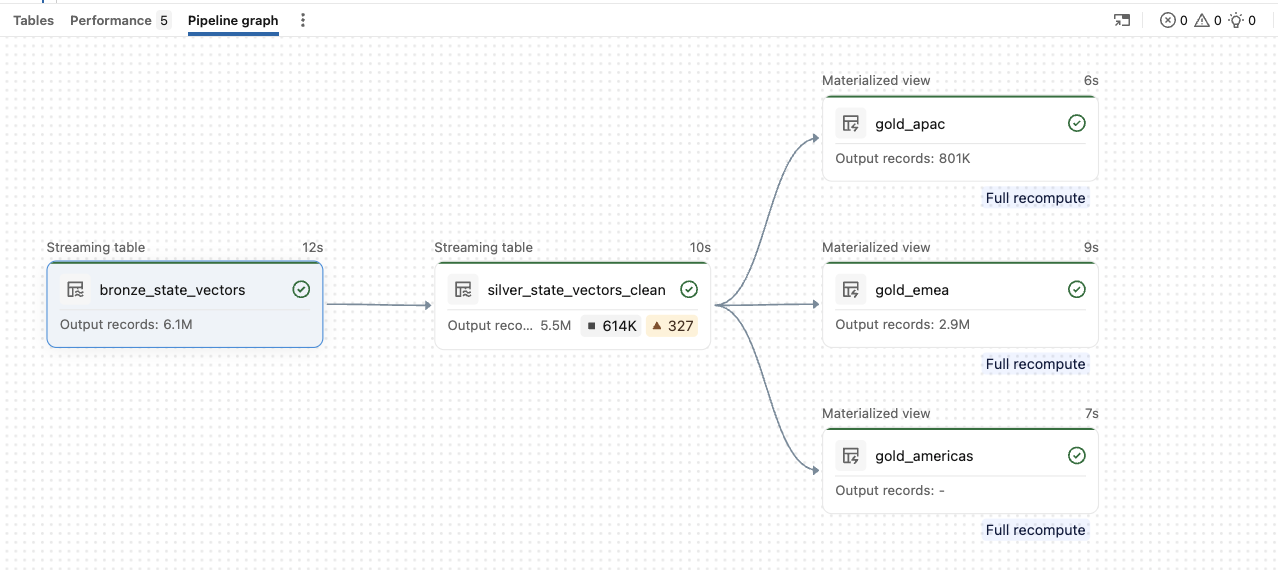
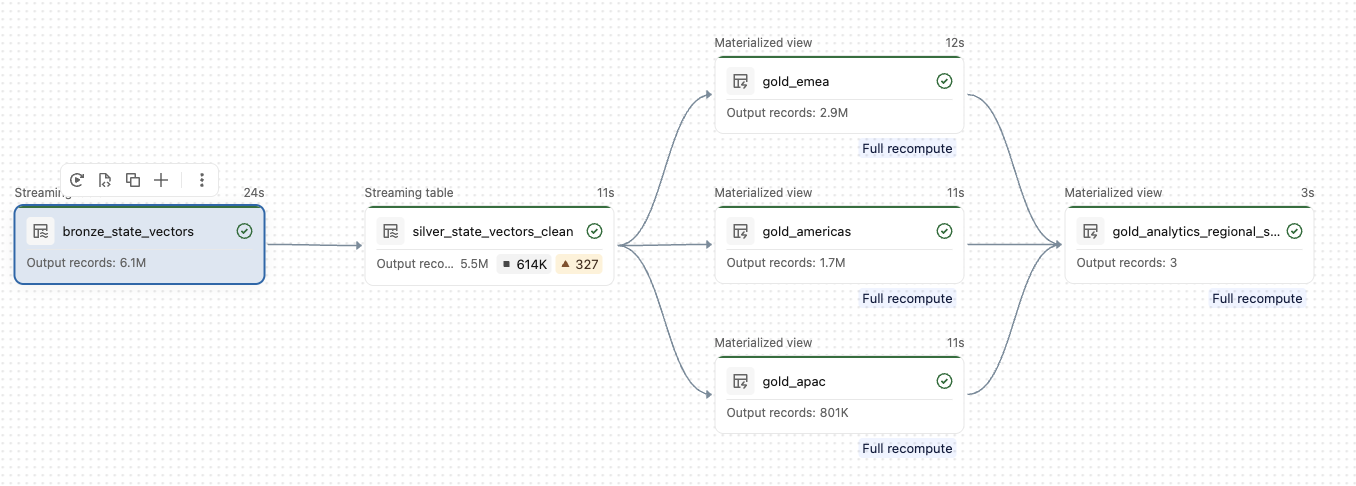
updates

diff --git a/DSDE-Genie-Workshop/docs/04-pipeline.md b/DSDE-Genie-Workshop/docs/04-pipeline.md
@@ -2,24 +2,17 @@
 
 ## What we do
 
-We turn the raw table into clean, query-ready data with a **Spark Declarative Pipeline**. Declartive means you declare *what* the data should look like and Databricks manages
+We turn the raw table into clean, query-ready data with a **Spark Declarative Pipeline**. Declarative means you declare *what* the data should look like and Databricks manages
 orchestration, incremental refresh, and data-quality enforcement. We generate the pipeline with
 **Genie Code**.
 
-> [!IMPORTANT]
-> **Free Edition — reduce the data first.** The full share is ~695M rows for one UTC day, more than
-> Free Edition compute can process, so filter the bronze ingest to a deterministic sample of
-> aircraft with the predicate below before running the pipeline. This keeps roughly 5% of aircraft
-> but every state vector for each of them — so whole flight tracks stay intact — and it needs no
-> clustering or index on the shared table.
+> **Note — this isn't a full pipeline tutorial.** Here we focus on generating a working
+> Spark Declarative Pipeline with Genie Code, not on teaching SDP from the ground up. If you want a
+> deeper, hands-on walkthrough of Spark Declarative Pipelines — covering both open source and Lakeflow —
+> see [How to get started with Spark Declarative Pipelines](https://www.databricks.com/discover/how-to-get-started-with-spark-declarative-pipelines).
+> It's built on the *same avionics data*, but consumed as a **live stream** — so you can literally
+> track the planes flying over your head right now.
 
-```sql
-SELECT *
-FROM marketplace.opensky.state_vectors
-WHERE mod(abs(crc32(icao24)), 20) = 0     -- ~5% of aircraft, whole tracks
-```
-
-Tune the divisor for the fraction you want (`20` ≈ 5%, `50` ≈ 2%). 
 ## Step-by-step guide
 
 > To create a Data Pipeline using SDP with Genie Code, follow this step-by-step procedure:
@@ -30,17 +23,20 @@ Tune the divisor for the fraction you want (`20` ≈ 5%, `50` ≈ 2%).
 >
 > **2. Submit Initial Pipeline Prompt**
 >
-> In the prompt chat input box, enter the prompt describing the end-to-end pipeline creation requirements:
+> In the prompt chat input box, enter the prompt describing the end-to-end pipeline creation requirements. Make sure you have the EDA findings in the same Genie chat available or copy them over. Using the full marketplace dataset, the SDP would process close to 700 million records. To make this more suitable for Databricks free edition we reduce the amount of data ingested to the flights between 12:00 and 12:15. 
 >
 > ```text
 > Create an SDP pipeline to process the OpenSky data from marketplace.opensky with data-quality constraints 
 > based on the findings above. Create a separate gold table with data for each of 
 > the regions Americas, EMEA, and APAC.
+> Add a materialized view that provides analytics for all the gold tables.
+> To reduce the data, only ingest flight data where the aircraft position timestamp 
+> falls between 12:00 and 12:15
 > ```
+
+> **3. Automatic Architecture Proposal**
 >
-> ****3. Automatic Architecture Proposal**
->
-> Genie Code will generate a proposed Medallion Architecture structure:
+> Genie Code will propose a Medallion Architecture structure:
 >
 > - Bronze Layer (bronze_state_vectors): Ingests raw OpenSky state vector data using streaming tables.
 > - Silver Layer (silver_state_vectors_clean): Applies quality constraints (filtering invalid locations, velocities, and extreme values).
@@ -48,22 +44,23 @@ Tune the divisor for the fraction you want (`20` ≈ 5%, `50` ≈ 2%).
 >     - gold_americas
 >     - gold_emea
 >     - gold_apac
+> - Gold Layer Summary (gold_analytics_regional_summary): A materialized view with analytics across all three regional gold tables.
 >
-> **5. Review Pipeline Graph**
+> **4. Review Pipeline Graph**
 >
-> Upon execution completion, Genie Code automatically builds the project files and generates the interactive Pipeline graph. Verify that the streaming tables flow from bronze_state_vectors → silver_state_vectors_clean (with applied expectations) → regional Gold outputs (gold_apac, gold_americas, gold_emea).
+> Upon execution completion, Genie Code automatically builds the project files and generates the interactive Pipeline graph. Verify that the streaming tables flow from bronze_state_vectors → silver_state_vectors_clean (with applied expectations) → regional Gold outputs (gold_apac, gold_americas, gold_emea) → gold_analytics_regional_summary.
 
 ## Results
 
-Genie Code's **proposed architecture** ([Step 4](#step-by-step-guide)), then the **Pipeline graph** it builds on execution
-([Step 5](#step-by-step-guide)) — `bronze_state_vectors` → `silver_state_vectors_clean` (with its data-quality
-expectations) → the three regional gold materialized views:
+Genie Code's **proposed architecture** ([Step 3](#step-by-step-guide)), then the **Pipeline graph** it builds on execution
+([Step 4](#step-by-step-guide)) — `bronze_state_vectors` → `silver_state_vectors_clean` (with its data-quality
+expectations) → the three regional gold materialized views → `gold_analytics_regional_summary`:
 ## Medallion Architecture
 ![Genie Code's proposed pipeline architecture — a bronze streaming table ingesting marketplace.opensky.state_vectors, a silver table applying data-quality constraints, and gold_americas / gold_emea / gold_apac regional tables.](assets/04-pipeline.png)
 
 ## Pipeline Graph
 
-![Pipeline graph after a completed run — bronze_state_vectors (6.1M rows) flows into silver_state_vectors_clean (5.5M rows after data-quality expectations), which fans out to the gold_apac (801K), gold_emea (2.9M), and gold_americas materialized views.](assets/04-pipeline-graph.png)
+![Pipeline graph after a completed run — bronze_state_vectors (6.1M rows) flows into silver_state_vectors_clean (5.5M rows after data-quality expectations), which fans out to the gold_apac (801K), gold_emea (2.9M), and gold_americas (1.7M) regional materialized views, which in turn feed the gold_analytics_regional_summary materialized view.](assets/04-pipeline-graph.png)
 
 ### Silver layer with data-quality expectations
 
@@ -103,7 +100,7 @@ the exact table names and boundaries in the generated pipeline; they'll look rou
 |---|---|---|
 | `gold_americas` | −170° to −30° | North & South America |
 | `gold_emea` | −30° to +75° | Europe, Middle East, Africa |
-| `gold_apac` | +60° to +180° and −180° to −120° | Asia-Pacific — **the table the [Step 5](05-app.md) app visualizes** |
+| `gold_apac` | +60° to +180° and −180° to −120° | Asia-Pacific |
 
 Splitting at the gold layer keeps each region small and fast to query, and lets you govern or
 share regions independently — while the shared silver table guarantees they were all cleaned with
@@ -115,14 +112,14 @@ the same data-quality rules.
 ## Recap
 
 You now have three cleaned **gold** tables — `gold_americas`, `gold_emea`, and `gold_apac` — all
-built on the same quality-checked silver table. Verify the APAC one (used by the app in [Step 5](05-app.md)):
+built on the same quality-checked silver table, plus the `gold_analytics_regional_summary`
+materialized view with analytics across all three. Verify the APAC one:
 
 ```sql
 SELECT * FROM gold_apac LIMIT 10;
 ```
 
-_(Confirm the exact gold table names in the pipeline Genie Code generates — note the APAC one;
-[Step 5](05-app.md) points the app at it.)_
+_(Confirm the exact gold table names in the pipeline Genie Code generates.)_
 
 ---
 

diff --git a/DSDE-Genie-Workshop/docs/05-app.md b/DSDE-Genie-Workshop/docs/05-app.md
@@ -1,18 +1,20 @@
-# 5. Databricks App with Genie Code — visualize APAC routes
+# 5. Databricks App with Genie Code — a 3D APAC flight map
 
 ## What we do
 
-We build an interactive visualization with **Databricks Apps** — a way to host web apps right
-next to your data, with governed access and no separate infrastructure to manage. We generate the
-app with **Genie Code**.
+We build an interactive **3D visualization** with **Databricks Apps** — a way to host web apps
+right next to your data, with governed access and no separate infrastructure to manage. The whole
+app is **generated by Genie Code** from a single natural-language prompt: a React/TypeScript app
+that uses **deck.gl** to draw each flight's trajectory as a 3D path — following its real altitude —
+that you can zoom, pan and rotate.
 
-> [!IMPORTANT]
-> **Free Edition:** Confirm Databricks Apps availability in your workspace before starting this step.
+It reads the raw Marketplace table directly and filters to an **APAC bounding box**, so this step
+stands on its own and doesn't depend on the pipeline's gold tables from [Step 4](04-pipeline.md).
 
 ## Screenshot
 
 > [!NOTE]
-> **Screenshot to be added:** the running app — the zoomable APAC flight-route map (`docs/assets/05-app.png`).
+> **Screenshot to be added:** the running app — the 3D, zoomable APAC flight-trajectory map (`docs/assets/05-app.png`).
 
 ## Step-by-step guide
 
@@ -25,16 +27,28 @@ app with **Genie Code**.
 > Give it this prompt:
 >
 > ```text
-> Create a Databricks App with a zoomable, interactive map of APAC flight
-> routes from the APAC gold table. Plot each aircraft position
-> (latitude/longitude) colored by altitude, draw per-callsign route polylines
-> ordered by time, and let the user zoom, pan and hover a flight to see its
-> callsign, origin country, altitude (ft) and speed (knots).
+> Create a Databricks App (React + TypeScript) that shows a 3D, zoomable map of
+> APAC flight trajectories, using deck.gl for rendering.
+>
+> Data: query marketplace.opensky.state_vectors directly. Keep only airborne
+> rows (on_ground = false) inside the APAC bounding box (latitude between -50
+> and 60, longitude between 60 and 180) whose time_position falls between 12:00
+> and 12:15 on 2026-03-01, and drop bad rows (null latitude/longitude, or
+> geo_altitude outside 0-20000 m). Pick the 100 callsigns with the most
+> position reports.
+>
+> For each of those 100 flights, order its positions by time and draw the
+> trajectory as a 3D path that follows the aircraft's altitude (use
+> geo_altitude as the elevation), colored by altitude. Give the map a pitched
+> 3D view the user can zoom, pan and rotate, and show a tooltip on hover with
+> the callsign, altitude in feet and speed in knots.
 > ```
 >
 > **Step 3: Connect the data**
 >
-> Point the app at your **SQL warehouse** and the **APAC gold table** from [Step 4](04-pipeline.md).
+> Point the app at your **SQL warehouse** and the Marketplace table
+> `marketplace.opensky.state_vectors` from [Step 1](01-marketplace.md). No pipeline output is
+> needed — the app applies the APAC bounding box itself.
 >
 > **Step 4: Deploy**
 >
@@ -49,8 +63,9 @@ app with **Genie Code**.
 
 ## Recap
 
-You have a live, zoomable map of APAC flight routes built on your cleaned gold data — the payoff
-of the whole workflow.
+You have a live, **3D** zoomable map of APAC flight trajectories — 100 flights drawn at their real
+altitudes — generated end-to-end by **Genie Code** from one prompt, reading the Marketplace data
+directly. The payoff of the whole workflow.
 
 ---
 

diff --git a/DSDE-Genie-Workshop/README.md b/DSDE-Genie-Workshop/README.md
@@ -1,14 +1,17 @@
-# OpenSky Avionics on Databricks
+# AI-powered Analytics of 700 Million OpenSky Avionics Records on Databricks Free Edition
 
-A hands-on, end-to-end tutorial on Databricks: start with a raw Marketplace dataset — a full day of flight-tracking data from the **OpenSky Network** — and finish with a live, interactive map.
+## How to get started with Databricks Genie as a Data Scientist or Data Engineer
+
+
+A hands-on, end-to-end tutorial on Databricks Free Edition with a real data set. Start with publicly available, raw Marketplace flight data from every single plane in the air on a particular day in 2026 from the **[OpenSky Network](https://opensky-network.org/)**, run EDA, analytics, ingest pipelines and finish with a live, interactive map.
 
 ## What you'll build
 
 1. **[Databricks Marketplace](docs/01-marketplace.md)** — get the data as a read-only Unity Catalog table.
-2. **[Genie Agents — EDA](docs/02-genie-eda.md)** — find data anomalies.
-3. **[Genie Agents — explore & visualize](docs/03-genie-explore.md)** — explore and visualize the data.
-4. **[Spark Declarative Pipeline with Genie Code](docs/04-pipeline.md)** — ingest and clean the data into per-region gold tables.
-5. **[Databricks App with Genie Code](docs/05-app.md)** — visualize APAC flight routes on a zoomable map.
+2. **[Genie Agents - EDA](docs/02-genie-eda.md)** — find data anomalies.
+3. **[Genie Agents - explore & visualize](docs/03-genie-explore.md)** — explore and visualize the data.
+4. **[Genie Code - Spark Declarative Pipeline](docs/04-pipeline.md)** — ingest and clean the data into per-region gold tables.
+5. **[Genie Code - create a Databricks App](docs/05-app.md)** — visualize APAC flight routes on a zoomable map.
 6. **[Genie One](docs/06-genie-one.md)** — ask questions across your data in natural language.
 7. **[OpenSharing](docs/07-opensharing.md)** — receive the shared data locally with the open-source client and VSCode.
 8. **[Wrap-up & next steps](docs/08-wrap-up.md)** — clean up and where to go from here.

diff --git a/DSDE-Genie-Workshop/docs/03-genie-explore.md b/DSDE-Genie-Workshop/docs/03-genie-explore.md
@@ -10,6 +10,8 @@ Where [the EDA step](02-genie-eda.md) focused on data quality and finding anomal
 about *insight*: ask a question and Genie returns the SQL, the result table, and
 an appropriate **chart or map**. You never have to write a query or build a dashboard manually. This is what Genie Agents does for you. 
 
+Genie Agents are highly suitable for answering both business and technical questions, because each answer is worked out in an **agentic loop** that pulls in all kinds of context — your Unity Catalog tables and their governance, curated sample queries, business rules and metrics, and verified answers — and reasons over it to return a grounded result rather than a guess.
+
 ## Step-by-step guide
 
 > **Step 1: Open your Genie Agent**
@@ -23,6 +25,8 @@ an appropriate **chart or map**. You never have to write a query or build a dash
 > by another column).
 
 ## Prompts to try
+
+Before charting anything, warm up with a few plain-text questions — Genie answers each with a single value or a small table. Try *"Which aircraft showed the fastest descent?"*, *"What's the highest-flying aircraft?"*, and *"Which aircraft was the fastest?"* Then move on to the visual prompts below.
 
 **1. Where is every plane, and how fast is it going?**
 
